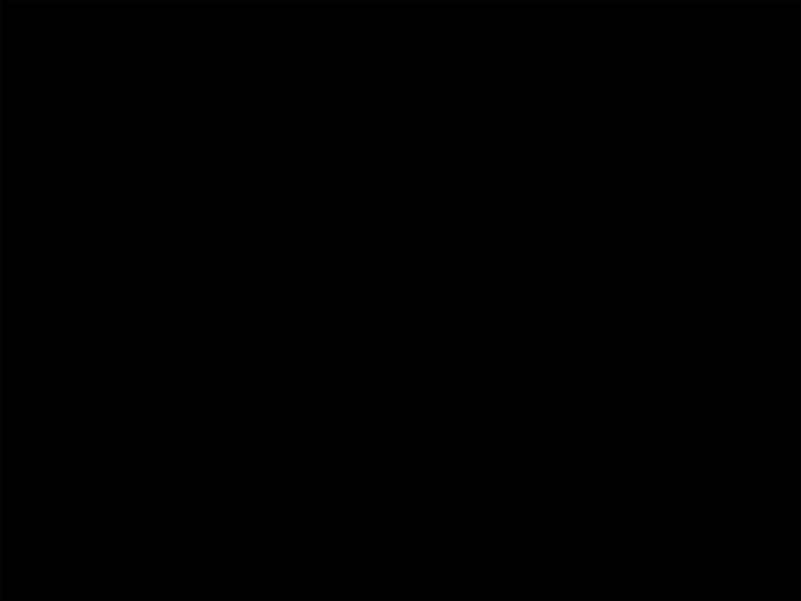
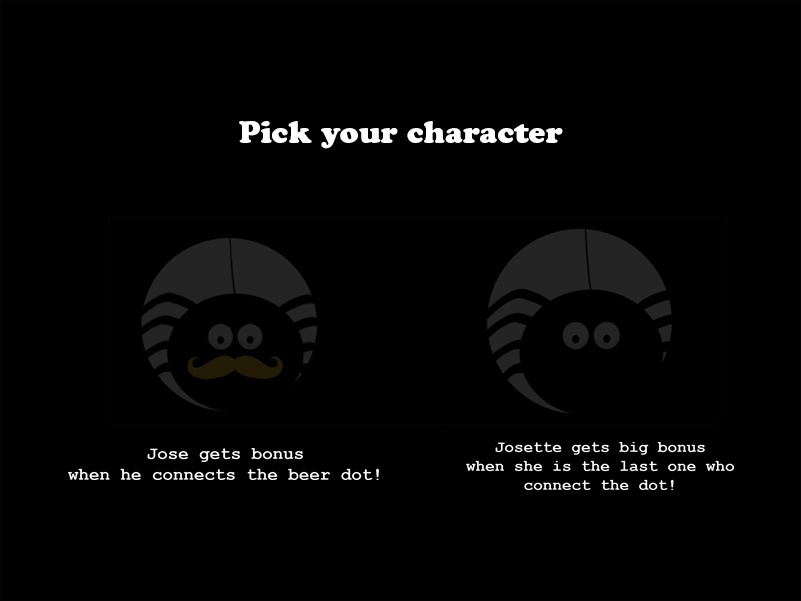
added character portrait img to the selection screen, changed the background

diff --git a/game.py b/game.py
@@ -11,6 +11,8 @@ def main():
     image = pygame.image.load(os.path.join("images", "background.png"))
     play_button_image = pygame.image.load(os.path.join("images", "basic_button.png")).convert()
     play_button = pygame.draw.rect(screen, (190, 190, 255), [500, 200, 121, 61])
+    pick_jose_image = pygame.image.load(os.path.join("images", "character_jose.png")).convert()
+    pick_josette_image = pygame.image.load(os.path.join("images", "character_josette.png")).convert()
     menu_background = pygame.image.load(os.path.join("images", "background.png"))
     screen.blit(image, (5,5))
     pygame.display.flip()
@@ -27,11 +29,13 @@ def main():
     while running:
         if MENU:
             screen.blit(menu_background, (5,5))
-            play_button = pygame.draw.rect(screen, (190, 190, 255), [600, 40, 121, 61])
-            screen.blit(play_button_image, [600, 40])
+            play_button = pygame.draw.rect(screen, (190, 190, 255), [340, 430, 121, 61])
+            screen.blit(play_button_image, [340, 430])
             pygame.display.flip()
         if SELECTION:
             screen.blit(character_selection, (0,0))
+            screen.blit(pick_jose_image, [130, 230])
+            screen.blit(pick_josette_image, [480, 230])
             pygame.display.flip()
         for event in pygame.event.get():
             if event.type == pygame.MOUSEBUTTONDOWN:
